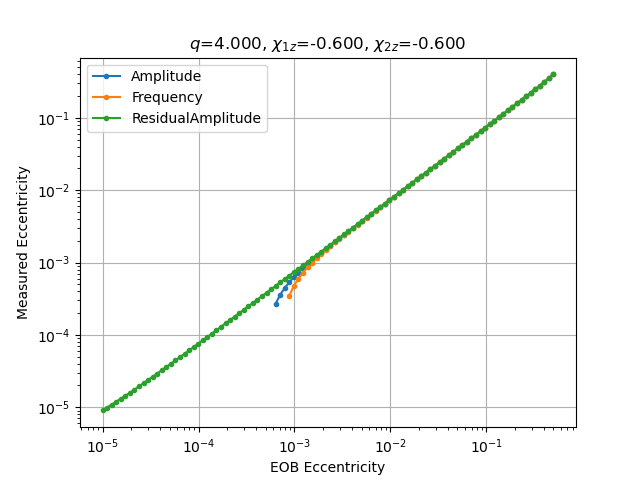
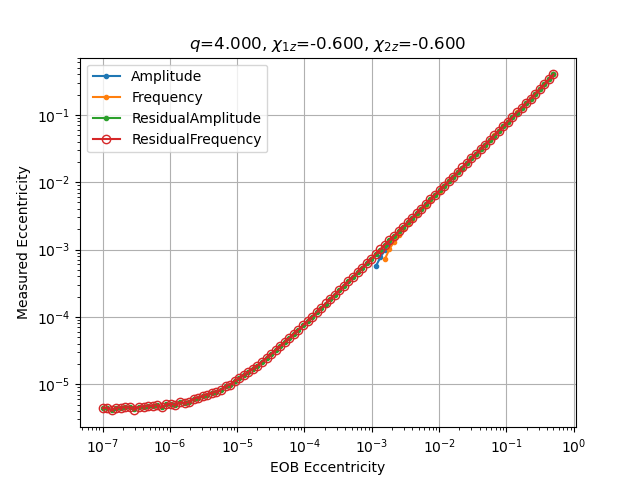
Add res freq method

diff --git a/measureEccentricity/eccDefinitionUsingResidualFrequency.py b/measureEccentricity/eccDefinitionUsingResidualFrequency.py
@@ -1,8 +1,8 @@
 """
-Find peaks and troughs using Residual Amplitude.
+Find peaks and troughs using Residual Frequency.
 
 Part of Eccentricity Definition project.
-Md Arif Shaikh, Mar 29, 2022
+Md Arif Shaikh, May 14, 2022
 """
 from .eccDefinitionUsingAmplitude import eccDefinitionUsingAmplitude
 from .utils import get_peak_via_quadratic_fit
@@ -10,17 +10,17 @@ from scipy.interpolate import InterpolatedUnivariateSpline
 import numpy as np
 
 
-class eccDefinitionUsingResidualAmplitude(eccDefinitionUsingAmplitude):
-    """Measure eccentricity by finding extrema from residual amplitude."""
+class eccDefinitionUsingResidualFrequency(eccDefinitionUsingAmplitude):
+    """Measure eccentricity by finding extrema from residual frequency."""
 
     def __init__(self, *args, **kwargs):
-        """Init for eccDefinitionUsingResidualAmplitude class.
+        """Init for eccDefinitionUsingResidualFrequency class.
 
         parameters:
         ----------
         dataDict: Dictionary containing the eccentric and quasi
         circular waveform data.
-        For residual amplitude method we need quasi-circular modes
+        For residual frequency method we need quasi-circular modes
         in additionn to the eccentric modes. Provide it as a dictionary
         for the key `hlm_zeroecc` and `t_zeroecc` in the dataDict dictionary.
         Keys for the modes in the mode dictionary should be
@@ -36,7 +36,11 @@ class eccDefinitionUsingResidualAmplitude(eccDefinitionUsingAmplitude):
         self.t_zeroecc = self.t_zeroecc - get_peak_via_quadratic_fit(
             self.t_zeroecc,
             np.abs(self.h22_zeroecc))[0]
-        self.quasi_circ_amp22_interp = InterpolatedUnivariateSpline(
-            self.t_zeroecc, np.abs(self.h22_zeroecc))
-        self.res_amp22 = self.amp22 - self.quasi_circ_amp22_interp(self.t)
-        return self.res_amp22
+        self.quasi_circ_phase22 = - np.unwrap(np.angle(self.h22_zeroecc))
+        self.quasi_circ_omega22 = np.gradient(self.quasi_circ_phase22,
+                                              self.t_zeroecc)
+        self.quasi_circ_omega22_interp = InterpolatedUnivariateSpline(
+            self.t_zeroecc, self.quasi_circ_omega22)
+        self.res_omega22 = (self.omega22
+                            - self.quasi_circ_omega22_interp(self.t))
+        return self.res_omega22

diff --git a/EccTests/TestEOBvsMeasuredEcc/test_eob_vs_measured_ecc.py b/EccTests/TestEOBvsMeasuredEcc/test_eob_vs_measured_ecc.py
@@ -105,7 +105,7 @@ def plot_waveform_ecc_vs_model_ecc(method, set_key, ax):
                     f"chi2z{chi2z:.2f}_EOBecc{ecc:.10f}_"
                     f"Momega0{Momega0:.3f}.h5")
         kwargs = {"filepath": fileName}
-        if method == "ResidualAmplitude":
+        if "Residual" in method:
             fileName_zero_ecc = (f"{data_dir}/EccTest_q{q:.2f}_chi1z"
                                  f"{chi1z:.2f}_"
                                  f"chi2z{chi2z:.2f}_EOBecc{0:.10f}_"
@@ -128,8 +128,11 @@ def plot_waveform_ecc_vs_model_ecc(method, set_key, ax):
         except Exception:
             warnings.warn("Exception raised. Probably too small eccentricity "
                           "to detect any extrema.")
-
-    ax.loglog(model_eccs, waveform_eccs, marker=".", label=f"{method}")
+    marker_style = {"marker": "."}
+    if method == "ResidualFrequency":
+        marker_style.update({"marker": "o",
+                             "mfc": "none"})
+    ax.loglog(model_eccs, waveform_eccs, label=f"{method}", **marker_style)
     ax.set_title(rf"$q$={q:.3f}, $\chi_{{1z}}$={chi1z:.3f}, $\chi_{{2z}}$"
                  f"={chi2z:.3f}")
 

diff --git a/measureEccentricity/measureEccentricity.py b/measureEccentricity/measureEccentricity.py
@@ -32,16 +32,18 @@ from .eccDefinitionUsingAmplitude import eccDefinitionUsingAmplitude
 from .eccDefinitionUsingFrequency import eccDefinitionUsingFrequency
 # from .eccDefinitionUsingFrequencyFits import eccDefinitionUsingFrequencyFits
 from .eccDefinitionUsingResidualAmplitude import eccDefinitionUsingResidualAmplitude
+from .eccDefinitionUsingResidualFrequency import eccDefinitionUsingResidualFrequency
 
 
 def get_available_methods():
     """Get dictionary of available methods."""
     models = {
-            "Amplitude": eccDefinitionUsingAmplitude,
-            "Frequency": eccDefinitionUsingFrequency,
-            "ResidualAmplitude": eccDefinitionUsingResidualAmplitude,
-            # "FrequencyFits": eccDefinitionUsingFrequencyFits
-            }
+        "Amplitude": eccDefinitionUsingAmplitude,
+        "Frequency": eccDefinitionUsingFrequency,
+        "ResidualAmplitude": eccDefinitionUsingResidualAmplitude,
+        "ResidualFrequency": eccDefinitionUsingResidualFrequency,
+        # "FrequencyFits": eccDefinitionUsingFrequencyFits
+    }
     return models
 
 

diff --git a/EccTests/TestEOBvsMeasuredEcc/test_measured_ecc_vs_time.py b/EccTests/TestEOBvsMeasuredEcc/test_measured_ecc_vs_time.py
@@ -128,7 +128,7 @@ def plot_waveform_ecc_vs_time(method, set_key, fig, ax):
                     f"chi2z{chi2z:.2f}_EOBecc{ecc:.10f}_"
                     f"Momega0{Momega0:.3f}.h5")
         kwargs = {"filepath": fileName}
-        if "ResidualAmplitude" in args.method:
+        if "Residual" in args.method:
             fileName_zero_ecc = (f"{data_dir}/EccTest_q{q:.2f}_chi1z"
                                  f"{chi1z:.2f}_"
                                  f"chi2z{chi2z:.2f}_EOBecc{0:.10f}_"
